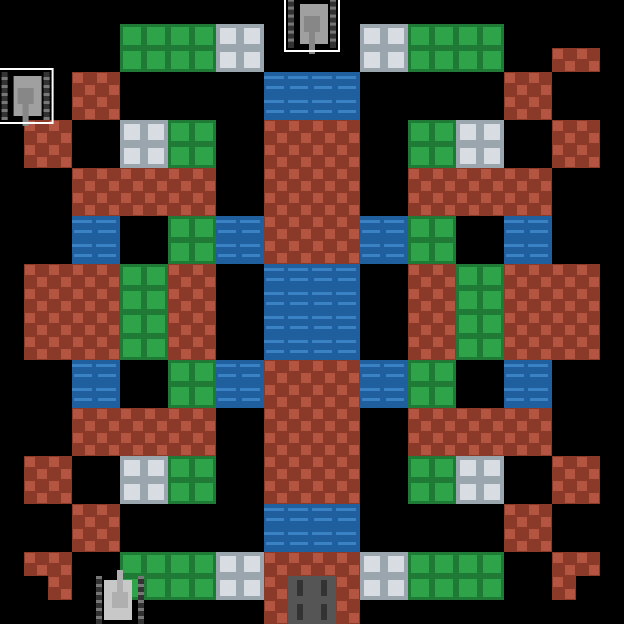
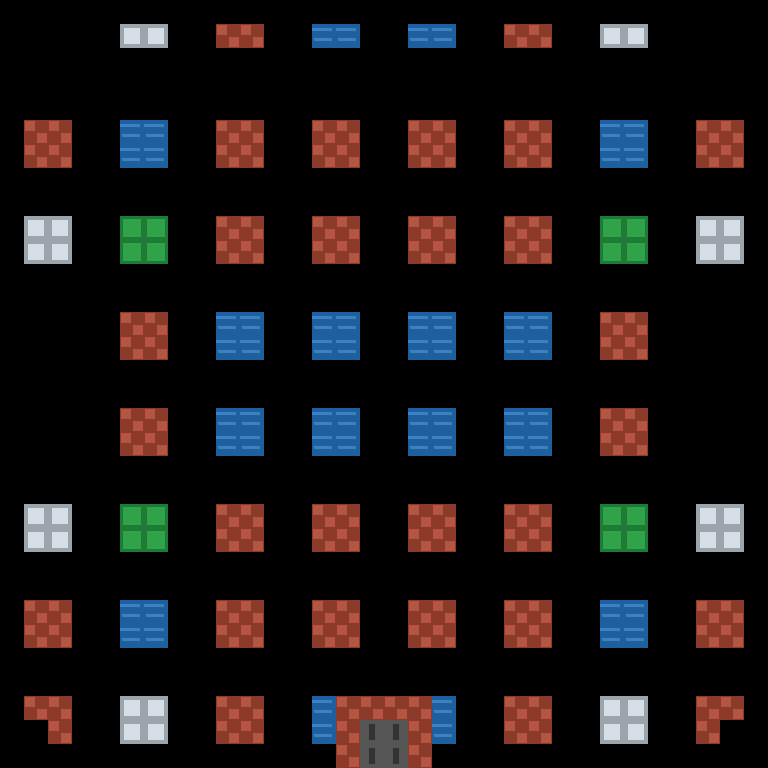
Fix: tank cooldown never decremented (one-shot fire), enlarge map to 32x32, lower brick density + open lanes for enemy AI roaming, clear enemies on level start

diff --git a/index.html b/index.html
@@ -20,7 +20,7 @@
   #hud { display: flex; gap: 24px; margin: 6px 0 10px; font-size: 15px; }
   #hud span b { color: #f5c542; }
   #wrap { position: relative; }
-  canvas { background: #000; border: 4px solid #444; image-rendering: pixelated; display: block; }
+  canvas { background: #000; border: 4px solid #444; image-rendering: pixelated; display: block; max-width: min(768px, 96vw); height: auto; }
   #overlay {
     position: absolute; inset: 0;
     background: rgba(0,0,0,.75);
@@ -47,7 +47,7 @@
   <span>敌人 <b id="left">0</b></span>
 </div>
 <div id="wrap">
-  <canvas id="game" width="624" height="624"></canvas>
+  <canvas id="game" width="768" height="768"></canvas>
   <div id="overlay">
     <h2>坦克大战</h2>
     <p>方向键 / WASD 移动 &nbsp;·&nbsp; 空格 / J 开火<br>
@@ -62,7 +62,7 @@
 "use strict";
 // ===== 常量 =====
 const TILE = 24;                 // 半格
-const GRID = 26;                 // 26x26 半格 => 624px
+const GRID = 32;                 // 32x32 半格 => 768px
 const W = GRID * TILE, H = GRID * TILE;
 const ctx = document.getElementById("game").getContext("2d");
 
@@ -79,10 +79,10 @@ function buildMap(level){
     for (let gx = 1; gx < GRID/2; gx += 2) {
       const r = rng();
       let t = EMPTY;
-      if (r < 0.42) t = BRICK;
-      else if (r < 0.52) t = STEEL;
-      else if (r < 0.60) t = WATER;
-      else if (r < 0.68) t = TREE;
+      if (r < 0.24) t = BRICK;
+      else if (r < 0.32) t = STEEL;
+      else if (r < 0.38) t = WATER;
+      else if (r < 0.46) t = TREE;
       if (t === EMPTY) continue;
       for (let dy = 0; dy < 2; dy++)
         for (let dx = 0; dx < 2; dx++) {
@@ -97,6 +97,8 @@ function buildMap(level){
   clearArea(0, GRID-2, 2, 2);                      // 玩家出生点(底部偏左)
   clearArea(GRID-2, GRID-2, 2, 2);                 // 备用出生(底部偏右)
   clearArea(1, 0, 2, 2); clearArea(GRID/2-1, 0, 2, 2); clearArea(GRID-3, 0, 2, 2); // 敌人出生点
+  // 顶部整行留出通道,保证敌人出生后可横向巡逻
+  for (let x = 0; x < GRID; x++) if (map[2][x] !== BASE) map[2][x] = EMPTY;
   // 基地(老鹰)居中底部, 四周砖墙
   const bx = GRID/2 - 1;
   clearArea(bx, GRID-2, 2, 2);
@@ -232,6 +234,7 @@ class Player extends Tank {
   update(){
     if (!this.alive) return;
     if (this.shield > 0) this.shield--;
+    if (this.cooldown > 0) this.cooldown--;
     const k = game.keys;
     let d = -1;
     if (k.ArrowUp || k.KeyW) d = 0;
@@ -269,6 +272,7 @@ class Enemy extends Tank {
   }
   update(){
     if (!this.alive) return;
+    if (this.cooldown > 0) this.cooldown--;
     this.think--;
     if (this.think <= 0) {
       this.think = 30 + Math.random() * 90;
@@ -464,6 +468,7 @@ function startLevel(lv){
   game.level = lv;
   buildMap(lv);
   game.bullets = []; game.booms = []; game.powers = [];
+  game.enemies = [];
   game.freeze = 0;
   const total = 12 + lv * 2;
   game.totalLeft = total;

diff --git a/README.md b/README.md
@@ -16,7 +16,8 @@
 - 🤖 4 种敌人:普通、快速(蓝)、重甲(绿,3 HP)、强力(闪红光,高射速,70% 概率掉落道具)
 - ⭐ 道具系统:星星(升级火力)、时钟(冻结敌军)、护盾、生命
 - 🔊 WebAudio 合成音效(无外部音频文件)
-- 🗺 每关程序化对称地图生成,难度递增
+- 🗺 每关程序化对称地图生成(768x768 大场景),难度递增
+- 🤝 敌人 AI:巡逻漫游 + 瞄准玩家/基地,持续开火
 - 🎯 火力三级升级:射速 → 弹速/双发 → 红色穿钢炮
 
 ## 运行
